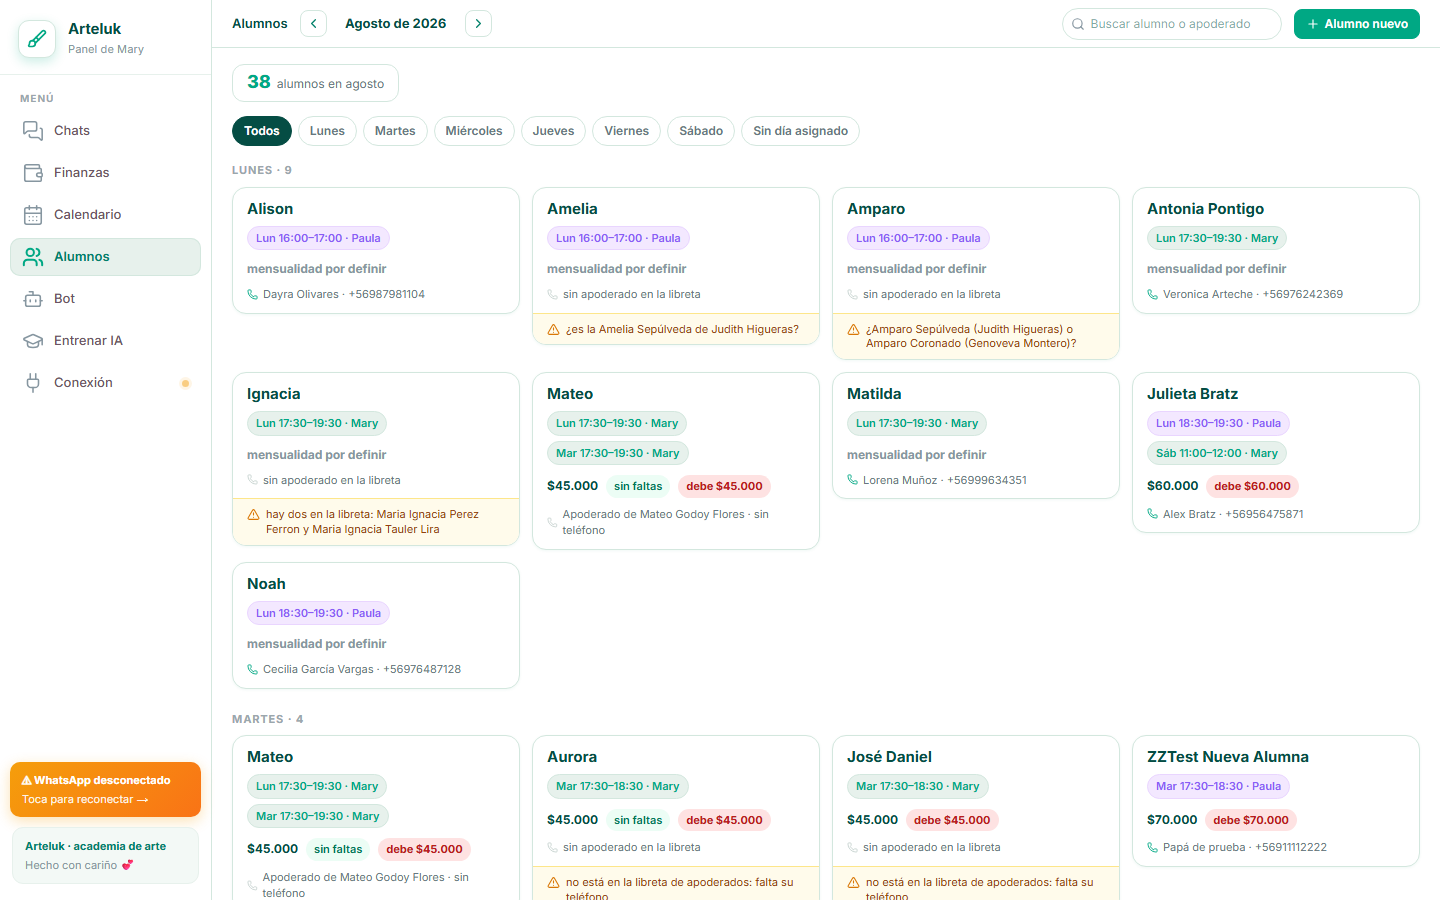
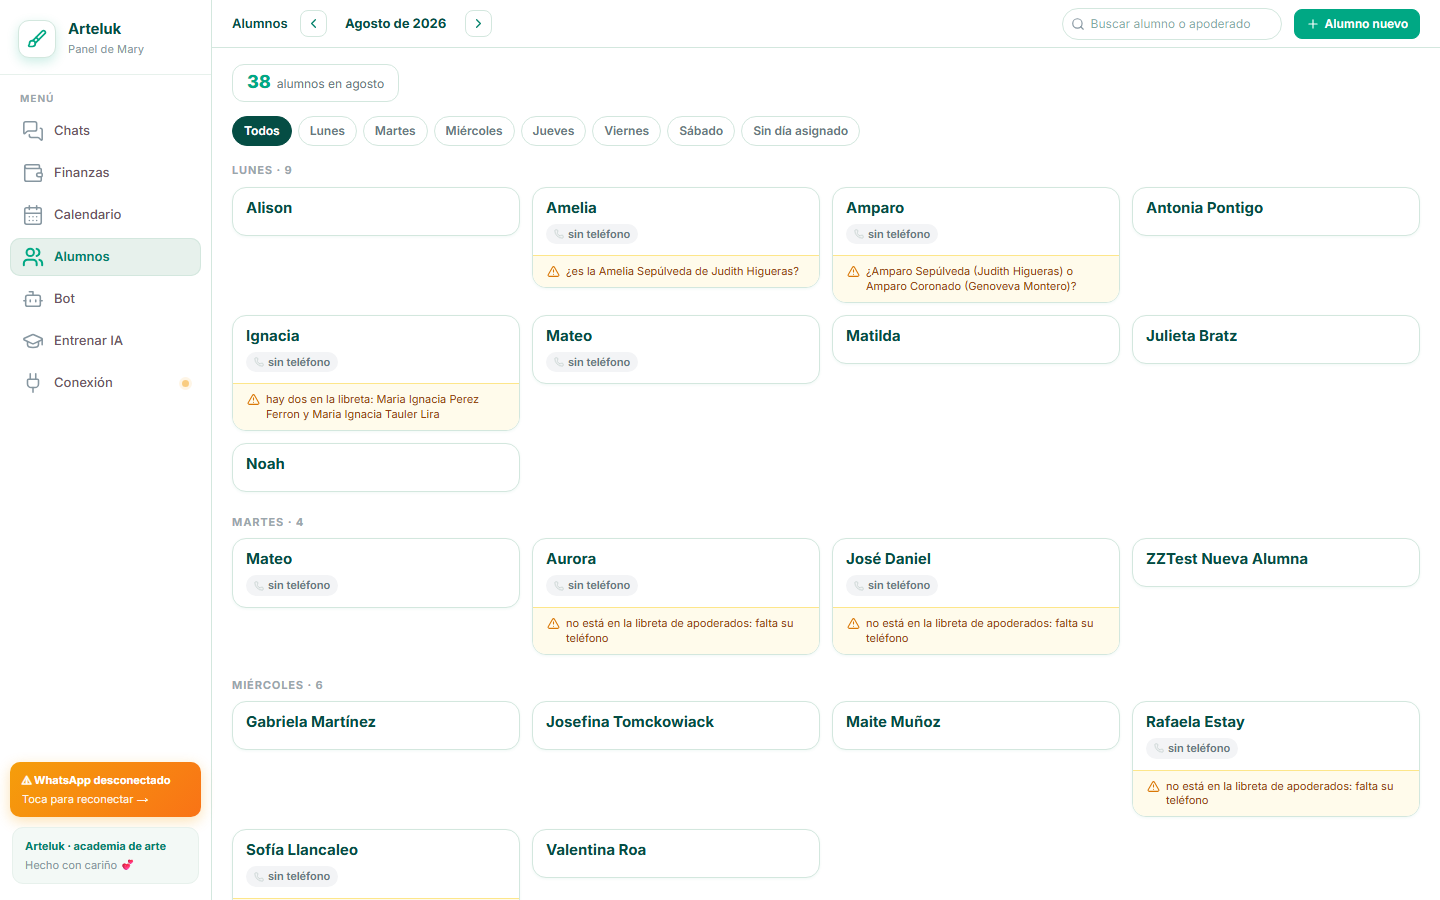
feat(alumnos): tarjetas compactas y el dia de clase se puede corregir sin borrarlo
Dos encargos de Lukas del 27-08-2026 sobre la pestana Alumnos.

TARJETAS COMPACTAS. "fuera el horario y la plata de la tarjeta". La tarjeta del
listado queda con el nombre y las senales que Mary necesita de un vistazo
(faltas, recuperativas, sin telefono, y el triangulo amarillo de la planilla).
El horario, la mensualidad y el pago no se pierden: se ven, y ahora se editan,
al abrir la ficha. Medido en pantalla: la tarjeta baja a 49px de alto.

EL DIA DE CLASE EDITABLE. Hasta hoy un dia solo se podia borrar y crear otro:
para corregir "las 17:30 eran las 17:00" habia que reescribir la fila entera.
Ahora se toca, se corrige dia/entrada/salida/profesora y se guarda. La API
PATCH /api/inscripciones/[id] ya existia y ya validaba; faltaba la pantalla.

Y un bug que cazó la prueba: guardar una hora CERRABA la ficha entera, porque
el Editor tenia una sola salida (onGuardado, que hace setAbierta(null)). Ahora
hay dos: onGuardado cierra, onRefrescar solo relee y deja la ficha abierta.
Aplicado a los TRES que tocan dias -editar, borrar y agregar-, no solo al que
fallaba. Anotado en errores-sesion.md.

Probado: test:alumnos-tarjeta 18/18 y test:conexion-telefono 12/12 (vistos
fallar antes), test:tarjeta-dia-api 17/17 tocando la pantalla con Playwright
-incluido que una salida antes de la entrada NO se guarda y explica por que-,
y la bateria de siempre verde: alumnos 25/25, crm 30/30, horario 46/46,
ausencias 27/27, dia-mary 21/21, menu 48/48, alumnos-api 21/21,
[…]

diff --git a/src/app/alumnos/page.tsx b/src/app/alumnos/page.tsx
@@ -12,7 +12,7 @@
 import { useCallback, useEffect, useState } from 'react'
 import AppNav from '@/components/AppNav'
 import { DIA_LABEL, DIAS, PROFE_NOMBRES, profeColor } from '@/lib/calendario'
-import { ChevronLeft, ChevronRight, Plus, X, Trash2, Check, Phone, AlertTriangle, Search } from 'lucide-react'
+import { ChevronLeft, ChevronRight, Plus, X, Trash2, Check, Phone, AlertTriangle, Search, Pencil } from 'lucide-react'
 
 type Inscripcion = { id: number; alumnoId: number; dia: string | null; hora: string; horaFin: string | null; profe: string | null; activa: boolean }
 type Ficha = {
@@ -217,7 +217,21 @@ export default function AlumnosPage() {
         </div>
       </div>
 
-      {abierta && <Editor ficha={abierta} mes={mes} onCerrar={() => setAbierta(null)} onGuardado={() => { setAbierta(null); load(mes) }} guardar={guardar} />}
+      {/* Dos maneras de terminar, y no son la misma:
+          · onGuardado  cierra la ficha (el botón Guardar de abajo, dar de baja…),
+          · onRefrescar deja la ficha ABIERTA y solo vuelve a leer los datos.
+          Lo segundo es para corregir los días de clase: si al arreglar una hora se
+          cerrara todo, Mary tendría que volver a abrir la ficha por cada día. */}
+      {abierta && (
+        <Editor
+          ficha={fichas.find(f => f.id === abierta.id) ?? abierta}
+          mes={mes}
+          onCerrar={() => setAbierta(null)}
+          onGuardado={() => { setAbierta(null); load(mes) }}
+          onRefrescar={() => load(mes)}
+          guardar={guardar}
+        />
+      )}
       {nueva && <Alta onCerrar={() => setNueva(false)} onCreado={() => { setNueva(false); load(mes) }} />}
     </div>
   )
@@ -239,52 +253,31 @@ function Tarjeta({ f, onClick }: { f: Ficha; onClick: () => void }) {
   return (
     <button data-alumno={f.id} onClick={onClick}
       style={{ textAlign: 'left', border: '1px solid #D3E7DE', borderRadius: 14, background: '#fff', padding: 0, cursor: 'pointer', fontFamily: 'inherit', overflow: 'hidden', boxShadow: '0 1px 3px rgba(0,128,105,0.06)' }}>
-      <div style={{ padding: '12px 14px 10px' }}>
+      {/* TARJETA COMPACTA (Lukas, 27-08-2026): "fuera el horario y la plata de la
+          tarjeta". El horario y la mensualidad no se pierden — se ven, y ahora se
+          editan, al abrir la ficha. Aquí se queda solo lo que Mary necesita de un
+          vistazo recorriendo el listado: quién es, si falta algo por hacer con él,
+          y el aviso amarillo si la planilla dejó una duda. */}
+      <div style={{ padding: '11px 13px' }}>
         <p style={{ fontSize: 15, fontWeight: 700, color: '#054D44', lineHeight: 1.2 }}>{f.nombre}</p>
 
-        {/* Sus días, cada uno con SU hora de salida y el color de su profesora */}
-        <div className="flex" style={{ gap: 5, flexWrap: 'wrap', marginTop: 8 }}>
-          {f.inscripciones.map(i => {
-            const c = profeColor(i.profe ?? '')
-            return (
-              <span key={i.id} style={{ fontSize: 11, fontWeight: 600, color: c.color, background: c.bg, border: `1px solid ${c.bd}`, borderRadius: 999, padding: '3px 8px' }}>
-                {i.dia ? DIA_CORTO[i.dia] : '¿?'} {i.hora}{i.horaFin ? `–${i.horaFin}` : ''}{i.profe ? ` · ${i.profe}` : ''}
-              </span>
-            )
-          })}
-          {f.inscripciones.length === 0 && <span style={{ fontSize: 11, color: '#8696A0' }}>sin horario todavía</span>}
-        </div>
-
-        <div className="flex items-center" style={{ gap: 8, marginTop: 10, flexWrap: 'wrap' }}>
-          <span style={{ fontSize: 12, fontWeight: 700, color: f.mensualidad ? '#054D44' : '#8696A0' }}>
-            {f.mensualidad ? pesos(f.mensualidad) : 'mensualidad por definir'}
-          </span>
-          {f.faltas.length > 0
-            ? <span style={{ fontSize: 11, fontWeight: 700, color: '#B91C1C', background: '#FEE2E2', borderRadius: 999, padding: '3px 8px' }}>
-                faltó {f.faltas.length === 1 ? 'el' : 'los días'} {f.faltas.map(diaDelMes).join(', ')}
-              </span>
-            : f.vino > 0 && f.avisadas.length === 0 && <span style={{ fontSize: 11, fontWeight: 600, color: '#047857', background: '#ECFDF5', borderRadius: 999, padding: '3px 8px' }}>sin faltas</span>}
-          {f.avisadas.length > 0 && (
-            <span style={{ fontSize: 11, fontWeight: 600, color: '#667781', background: '#F3F4F6', borderRadius: 999, padding: '3px 8px' }}>
-              avisó que no viene {f.avisadas.length === 1 ? 'el' : 'los días'} {f.avisadas.map(diaDelMes).join(', ')}
+        <div className="flex items-center" style={{ gap: 6, marginTop: 7, flexWrap: 'wrap' }}>
+          {f.faltas.length > 0 && (
+            <span style={{ fontSize: 11, fontWeight: 700, color: '#B91C1C', background: '#FEE2E2', borderRadius: 999, padding: '2px 8px' }}>
+              {f.faltas.length === 1 ? '1 falta' : `${f.faltas.length} faltas`}
             </span>
           )}
           {f.recuperativas > 0 && (
-            <span style={{ fontSize: 11, fontWeight: 700, color: '#B45309', background: '#FEF3C7', borderRadius: 999, padding: '3px 8px' }}>
+            <span style={{ fontSize: 11, fontWeight: 700, color: '#B45309', background: '#FEF3C7', borderRadius: 999, padding: '2px 8px' }}>
               {f.recuperativas === 1 ? '1 recuperativa' : `${f.recuperativas} recuperativas`}
             </span>
           )}
-          {PAGO_CHIP[f.pago.estado] && (
-            <span data-pago={f.pago.estado} style={{ fontSize: 11, fontWeight: 700, color: PAGO_CHIP[f.pago.estado].color, background: PAGO_CHIP[f.pago.estado].bg, borderRadius: 999, padding: '3px 8px' }}>
-              {PAGO_CHIP[f.pago.estado].texto(f.pago)}
+          {!f.telefono && (
+            <span style={{ fontSize: 11, fontWeight: 600, color: '#667781', background: '#F3F4F6', borderRadius: 999, padding: '2px 8px', display: 'flex', alignItems: 'center', gap: 4 }}>
+              <Phone size={10} style={{ color: '#C7D3D0' }} /> sin teléfono
             </span>
           )}
         </div>
-
-        <p style={{ fontSize: 11, color: '#667781', marginTop: 8, display: 'flex', alignItems: 'center', gap: 5 }}>
-          <Phone size={11} style={{ color: f.telefono ? '#00A884' : '#C7D3D0' }} />
-          {f.apoderado ? `${f.apoderado}${f.telefono ? ` · ${f.telefono}` : ' · sin teléfono'}` : 'sin apoderado en la libreta'}
-        </p>
       </div>
 
       {f.revisar && (
@@ -297,8 +290,9 @@ function Tarjeta({ f, onClick }: { f: Ficha; onClick: () => void }) {
   )
 }
 
-function Editor({ ficha, mes, onCerrar, onGuardado, guardar }: {
+function Editor({ ficha, mes, onCerrar, onGuardado, onRefrescar, guardar }: {
   ficha: Ficha; mes: string; onCerrar: () => void; onGuardado: () => void
+  onRefrescar: () => void
   guardar: (id: number, cambios: Partial<Ficha>) => Promise<void>
 }) {
   const [nombre, setNombre] = useState(ficha.nombre)
@@ -360,7 +354,7 @@ function Editor({ ficha, mes, onCerrar, onGuardado, guardar }: {
   async function borrarDia(id: number) {
     if (!confirm('¿Sacarle este día de clase?')) return
     await fetch(`/api/inscripciones/${id}`, { method: 'DELETE' })
-    onGuardado()
+    onRefrescar()   // la ficha se queda abierta: casi siempre viene otro día detrás
   }
 
   return (
@@ -390,14 +384,9 @@ function Editor({ ficha, mes, onCerrar, onGuardado, guardar }: {
 
           <p style={etiqueta}>Días de clase</p>
           {ficha.inscripciones.map(i => (
-            <div key={i.id} className="flex items-center" style={{ gap: 8, padding: '7px 0', borderBottom: '1px solid #F2F7F5' }}>
-              <span style={{ fontSize: 12, color: '#054D44', flex: 1 }}>
-                {i.dia ? DIA_LABEL[i.dia] : 'día por confirmar'} · {i.hora}{i.horaFin ? ` a ${i.horaFin}` : ''}{i.profe ? ` · ${i.profe}` : ' · sin profesora'}
-              </span>
-              <button onClick={() => borrarDia(i.id)} title="Sacar este día" style={{ ...btnIcono, border: 'none', color: '#EF4444' }}><Trash2 size={14} /></button>
-            </div>
+            <DiaEditable key={i.id} i={i} onBorrar={() => borrarDia(i.id)} onListo={onRefrescar} />
           ))}
-          <NuevoDia alumnoId={ficha.id} onListo={onGuardado} />
+          <NuevoDia alumnoId={ficha.id} onListo={onRefrescar} />
 
           {(ficha.faltas.length > 0 || ficha.avisadas.length > 0) && (
             <>
@@ -464,6 +453,80 @@ function Editor({ ficha, mes, onCerrar, onGuardado, guardar }: {
             {guardando ? 'Guardando…' : 'Guardar'}
           </button>
         </div>
+      </div>
+    </div>
+  )
+}
+
+// Un día de clase que se puede TOCAR PARA CAMBIARLO (Lukas, 27-08-2026).
+//
+// Hasta hoy un día solo se podía borrar y volver a crear: para corregir "las 17:30
+// eran las 17:00" había que acordarse del resto de la fila y escribirla de nuevo.
+// Ahora se toca, se corrige lo que esté malo y se guarda; el borrar sigue donde
+// estaba, porque sacarle un día a alguien es otra cosa distinta a corregirlo.
+//
+// Guarda contra PATCH /api/inscripciones/[id], que ya existía y ya validaba el día,
+// el formato de la hora y que la salida vaya después de la entrada. Si la API dice
+// que no, el error se muestra aquí y NO se cierra el formulario: si no, Mary creería
+// que guardó.
+function DiaEditable({ i, onBorrar, onListo }: { i: Inscripcion; onBorrar: () => void; onListo: () => void }) {
+  const [abierto, setAbierto] = useState(false)
+  const [dia, setDia] = useState<string>(i.dia ?? 'Lunes')
+  const [hora, setHora] = useState(i.hora)
+  const [horaFin, setHoraFin] = useState(i.horaFin ?? '')
+  const [profe, setProfe] = useState<string>(i.profe ?? '')
+  const [error, setError] = useState('')
+  const [guardando, setGuardando] = useState(false)
+
+  async function guardarDia() {
+    setError(''); setGuardando(true)
+    const r = await fetch(`/api/inscripciones/${i.id}`, {
+      method: 'PATCH', headers: { 'Content-Type': 'application/json' },
+      body: JSON.stringify({ dia, hora, horaFin: horaFin.trim() || null, profe: profe.trim() || null }),
+    })
+    const d = await r.json() as { ok: boolean; error?: string }
+    setGuardando(false)
+    if (!d.ok) { setError(d.error ?? 'No se pudo guardar'); return }
+    setAbierto(false)
+    onListo()
+  }
+
+  // Cerrado: la línea de siempre, pero ahora se puede tocar para corregirla.
+  if (!abierto) {
+    return (
+      <div className="flex items-center" style={{ gap: 8, padding: '7px 0', borderBottom: '1px solid #F2F7F5' }}>
+        <button data-dia={i.id} onClick={() => setAbierto(true)}
+          style={{ flex: 1, textAlign: 'left', border: 'none', background: 'transparent', padding: 0, cursor: 'pointer', fontFamily: 'inherit', fontSize: 12, color: '#054D44' }}>
+          {i.dia ? DIA_LABEL[i.dia] : 'día por confirmar'} · {i.hora}{i.horaFin ? ` a ${i.horaFin}` : ''}{i.profe ? ` · ${i.profe}` : ' · sin profesora'}
+        </button>
+        <button onClick={() => setAbierto(true)} title="Cambiar este día" style={{ ...btnIcono, border: 'none', color: '#00A884' }}><Pencil size={14} /></button>
+        <button onClick={onBorrar} title="Sacar este día" style={{ ...btnIcono, border: 'none', color: '#EF4444' }}><Trash2 size={14} /></button>
+      </div>
+    )
+  }
+
+  return (
+    <div data-dia-editando={i.id} style={{ border: '1px solid #D3E7DE', borderRadius: 10, padding: 12, marginBottom: 9 }}>
+      <div className="flex" style={{ gap: 6, flexWrap: 'wrap' }}>
+        <select value={dia} onChange={e => setDia(e.target.value)} style={input}>
+          {DIAS.map(d => <option key={d} value={d}>{DIA_LABEL[d]}</option>)}
+        </select>
+        <input value={hora} onChange={e => setHora(e.target.value)} placeholder="17:30" style={{ ...input, width: 80 }} />
+        <input value={horaFin} onChange={e => setHoraFin(e.target.value)} placeholder="19:30" style={{ ...input, width: 80 }} />
+        <select value={profe} onChange={e => setProfe(e.target.value)} style={input}>
+          {/* La opción vacía existe porque hay bloques sin profesora sabida (los del
+              horario de Mary que quedaron marcados) y no se le inventa una. */}
+          <option value="">sin profesora</option>
+          {PROFE_NOMBRES.map(p => <option key={p} value={p}>{p}</option>)}
+        </select>
+      </div>
+      {error && <p style={{ fontSize: 11, color: '#B91C1C', marginTop: 7 }}>{error}</p>}
+      <div className="flex" style={{ gap: 7, marginTop: 9 }}>
+        <button onClick={guardarDia} disabled={guardando}
+          style={{ ...btnTexto, background: '#00A884', color: '#fff', borderColor: '#00A884', opacity: guardando ? 0.6 : 1 }}>
+          {guardando ? 'Guardando…' : 'Guardar el día'}
+        </button>
+        <button onClick={() => { setAbierto(false); setError('') }} style={btnTexto}>Cancelar</button>
       </div>
     </div>
   )

diff --git a/scripts/test-alumnos-tarjeta.ts b/scripts/test-alumnos-tarjeta.ts
@@ -1,0 +1,57 @@
+// ── TARJETAS COMPACTAS + EL DÍA DE CLASE EDITABLE (Lukas, 27-08-2026) ─────────
+//
+// Dos encargos suyos sobre la pestaña Alumnos:
+//   (2) "tarjetas compactas: fuera el horario y la plata de la tarjeta",
+//   (3) la ficha, al abrirla, tiene que dejar EDITAR el día de clase ya puesto
+//       (hasta hoy solo se podía borrar y crear otro).
+//
+// Se comprueba leyendo el componente, que es donde vive la decisión de qué se
+// dibuja. Lo de verdad (que se vea en pantalla) lo prueba test-alumnos-api.mjs
+// con Playwright; esto es el filtro rápido que corre sin navegador.
+
+import { readFileSync } from "node:fs";
+
+let pass = 0, fail = 0;
+function check(n: string, c: boolean, e = "") { if (c) { console.log(`  ✅ ${n}`); pass++; } else { console.log(`  ❌ ${n} ${e}`); fail++; } }
+
+console.log("\n🧪 TEST tarjetas compactas y el día de clase editable (27-08-2026)\n");
+
+const src = readFileSync("src/app/alumnos/page.tsx", "utf8");
+
+// El archivo tiene dos mitades que hay que mirar por separado: lo que dibuja la
+// TARJETA del listado y lo que dibuja la FICHA que se abre encima.
+const iTarjeta = src.indexOf("function Tarjeta(");
+const iEditor = src.indexOf("function Editor(");
+check("el archivo tiene Tarjeta y Editor", iTarjeta > 0 && iEditor > iTarjeta, `${iTarjeta}/${iEditor}`);
+const tarjeta = src.slice(iTarjeta, iEditor);
+const editor = src.slice(iEditor);
+
+// ── (2) La tarjeta compacta: fuera el horario y fuera la plata ───────────────
+check("la tarjeta ya NO dibuja los chips de horario", !/DIA_CORTO\[/.test(tarjeta), "sigue pintando el horario");
+check("la tarjeta ya NO dibuja la mensualidad", !/mensualidad por definir/.test(tarjeta), "sigue pintando la mensualidad");
+check("la tarjeta ya NO dibuja el chip de pago", !/PAGO_CHIP\[/.test(tarjeta), "sigue pintando el pago");
+
+// Lo que SÍ se queda: el nombre, y las señales que Mary necesita de un vistazo.
+check("la tarjeta sigue mostrando el nombre", /f\.nombre/.test(tarjeta));
+check("la tarjeta sigue avisando de las faltas", /f\.faltas\.length/.test(tarjeta), "se perdió el aviso de faltas");
+check("la tarjeta sigue mostrando el triángulo amarillo", /f\.revisar/.test(tarjeta), "se perdió el aviso de revisar");
+
+// ── El horario y la plata NO se pierden: se ven al abrir la ficha ────────────
+check("la ficha sigue mostrando el horario", /DIA_LABEL\[/.test(editor), "el horario no aparece en la ficha");
+check("la ficha sigue mostrando la mensualidad", /Mensualidad/.test(editor), "la mensualidad no aparece en la ficha");
+
+// ── (3) El día de clase se puede EDITAR, no solo borrar ─────────────────────
+check("la ficha tiene un editor de día de clase", /function DiaEditable\(/.test(src), "no existe DiaEditable");
+check("la ficha usa DiaEditable para cada día", /<DiaEditable/.test(editor), "el Editor no lo usa");
+check("guarda el día contra la API de inscripciones", /\/api\/inscripciones\/\$\{[^}]+\}`?,\s*\{?\s*\n?\s*method:\s*'PATCH'/.test(src) || /method:\s*'PATCH'[^}]*\}\)\s*$/m.test(src) && /inscripciones/.test(src), "no hace PATCH a inscripciones");
+check("se puede cambiar la hora de entrada", /hora/.test(src.slice(src.indexOf("function DiaEditable("))), "sin campo hora");
+check("se puede cambiar la hora de salida", /horaFin/.test(src.slice(src.indexOf("function DiaEditable("))), "sin campo horaFin");
+check("se puede cambiar la profesora", /profe/.test(src.slice(src.indexOf("function DiaEditable("))), "sin campo profe");
+check("se puede cambiar el día", /dia/.test(src.slice(src.indexOf("function DiaEditable("))), "sin campo dia");
+
+// ── La familia: borrar un día y agregar uno nuevo siguen existiendo ─────────
+check("sigue el botón de sacar un día", /borrarDia/.test(editor), "se perdió el borrar");
+check("sigue el formulario de agregar un día", /<NuevoDia/.test(editor), "se perdió el agregar");
+
+console.log(`\n${fail === 0 ? "✅" : "❌"} ${pass} bien, ${fail} mal\n`);
+process.exit(fail === 0 ? 0 : 1);

diff --git a/errores-sesion.md b/errores-sesion.md
@@ -814,3 +814,24 @@ resulta que la alumna del caso YA había quedado pagada dos pasos antes en la mi
 corrida, y el sistema —bien— no propone a quien ya pagó. El test reutilizaba estado suyo.
 Ahora esa parte usa una casa nueva y, de paso, quedó como caso propio: **a quien ya pagó
 no se le preselecciona otro pago del mismo mes**.
+
+---
+
+## 27-08-2026 · Guardar una hora de clase CERRABA la ficha entera
+
+**Qué pasó.** Al hacer el día de clase editable, guardar la hora nueva funcionaba —el dato
+quedaba bien en la base— pero la prueba de pantalla se caía buscando el día que acababa de
+tocar. No era el test: al guardar, la ficha se cerraba de golpe y volvía al listado.
+
+**Por qué.** El Editor tenía UNA sola salida, `onGuardado`, y esa salida hace dos cosas
+juntas: `setAbierta(null)` (cierra) y `load(mes)` (relee). Está bien para el botón Guardar
+de abajo, que efectivamente termina. Pero para corregir un día no: casi siempre viene otro
+día detrás, y Mary tendría que reabrir la ficha por cada hora que arregla.
+
+**El arreglo.** Dos salidas distintas: `onGuardado` cierra, `onRefrescar` solo relee y deja
+la ficha abierta. La ficha se redibuja con `fichas.find(f => f.id === abierta.id)` para que
+muestre el dato nuevo sin cerrarse. Se aplicó a los TRES que tocan días —editar, borrar y
+agregar—, no solo al que fallaba: son la misma familia y el resto tenía el mismo defecto.
+
+**La regla.** "Guardar" y "terminar" no son lo mismo. Cuando una pantalla deja repetir la
+misma acción varias veces seguidas, guardar tiene que dejar al usuario donde estaba.
